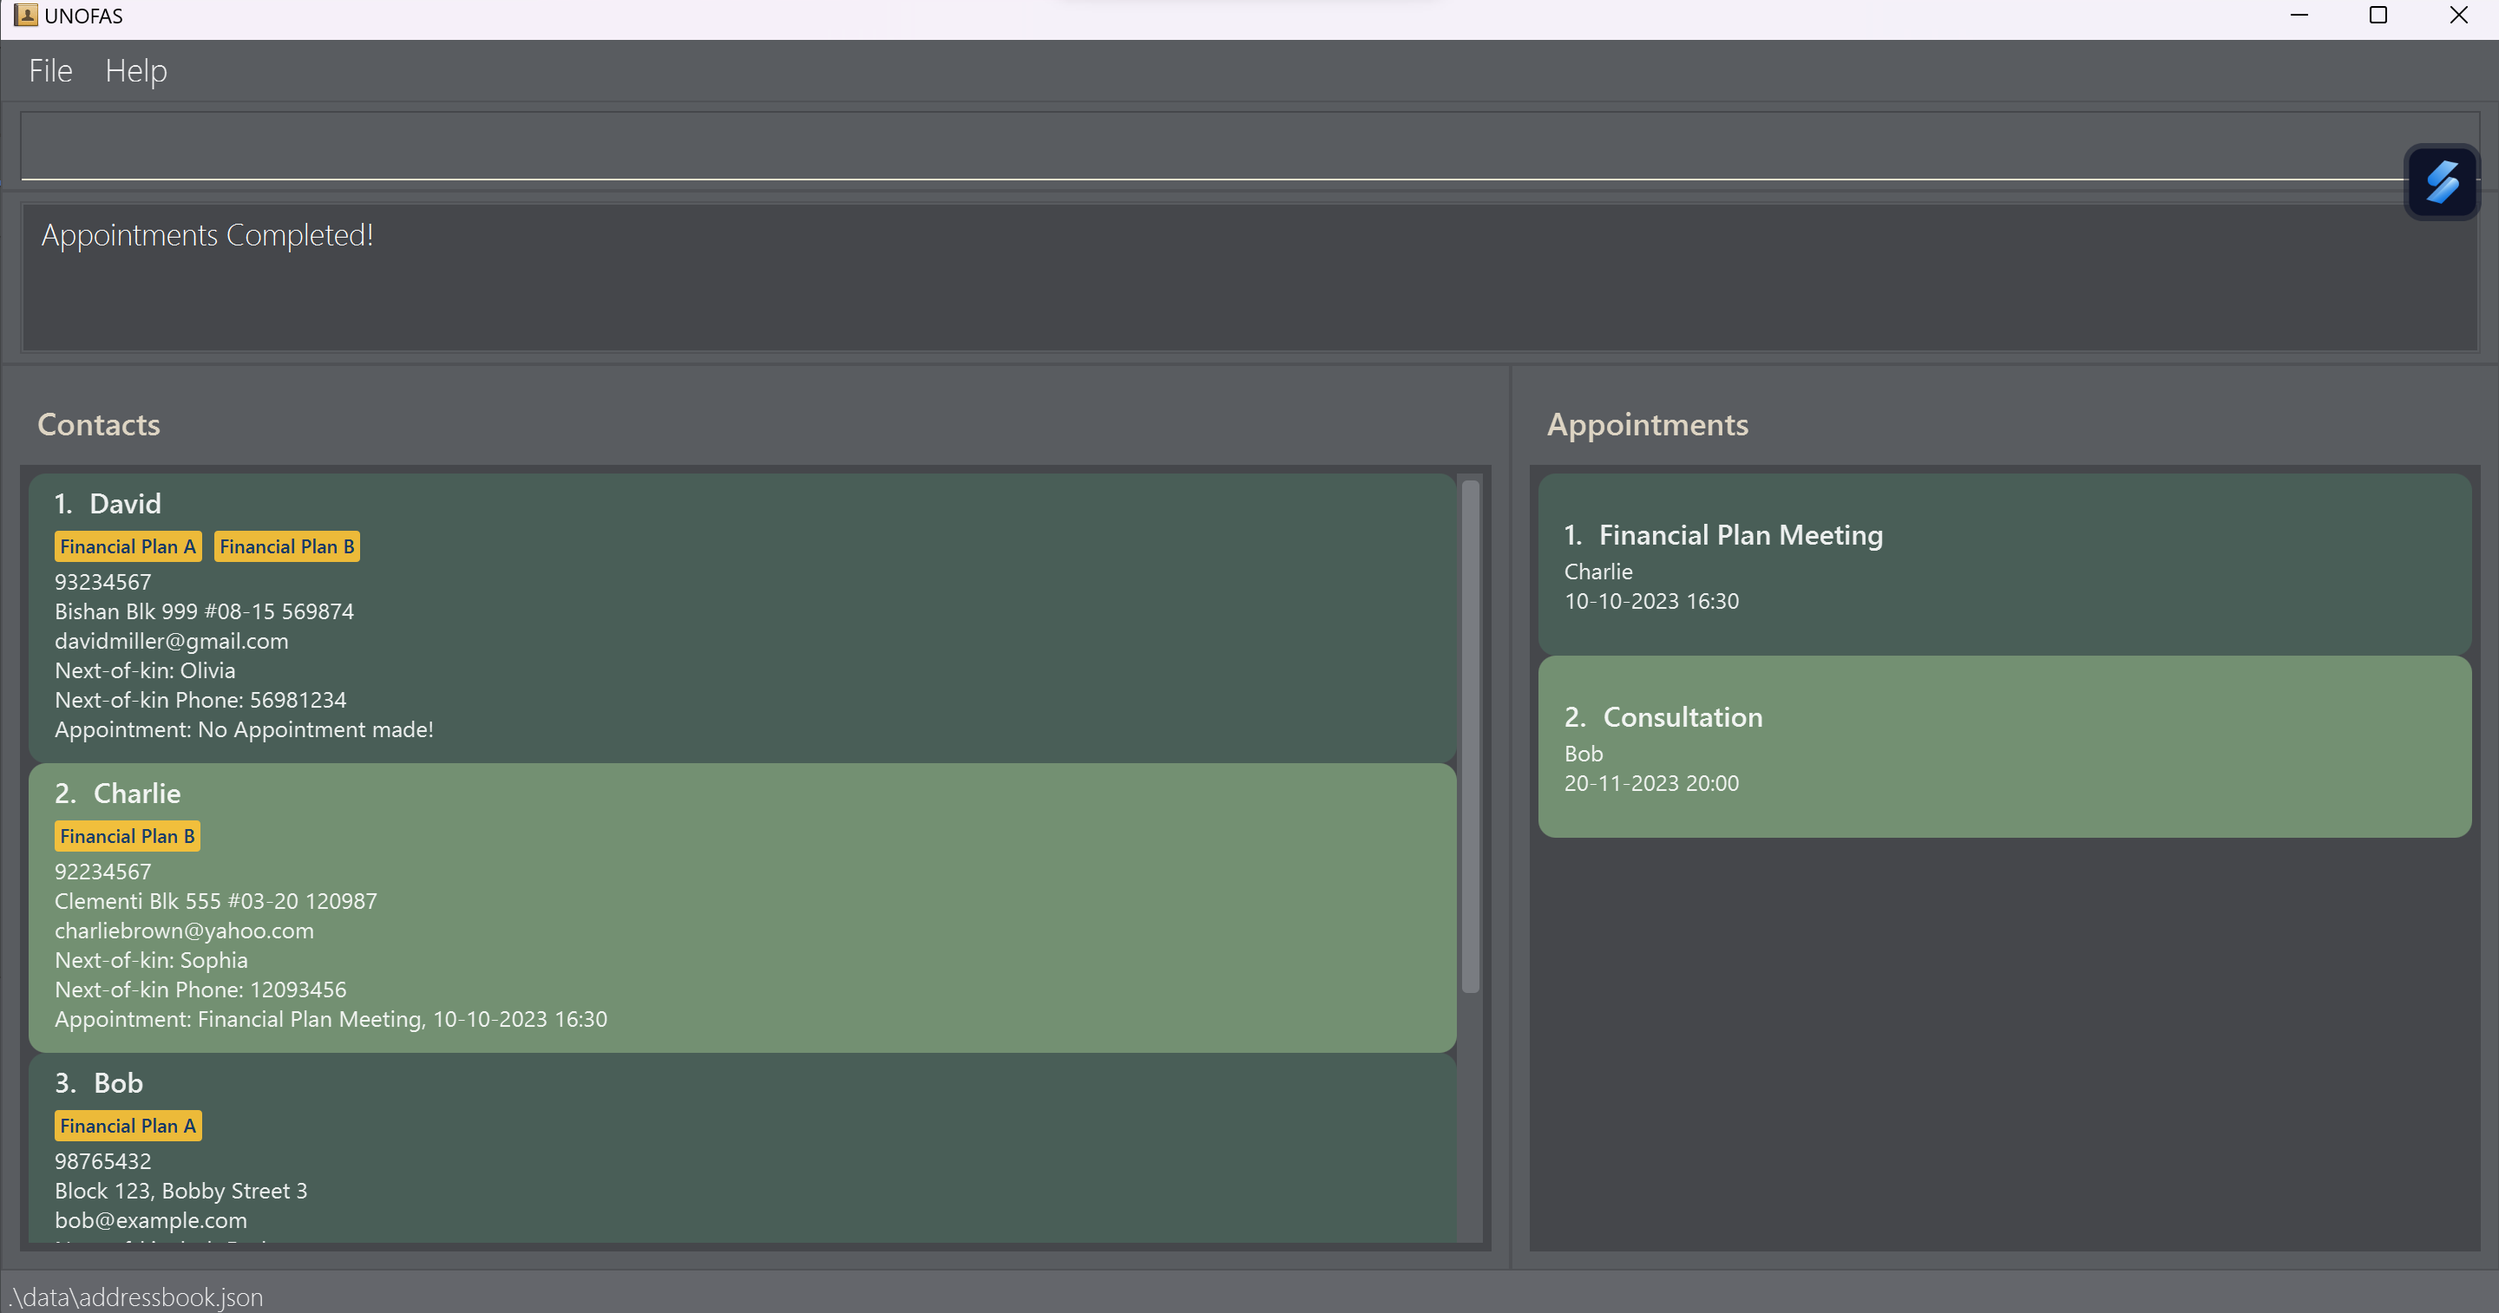
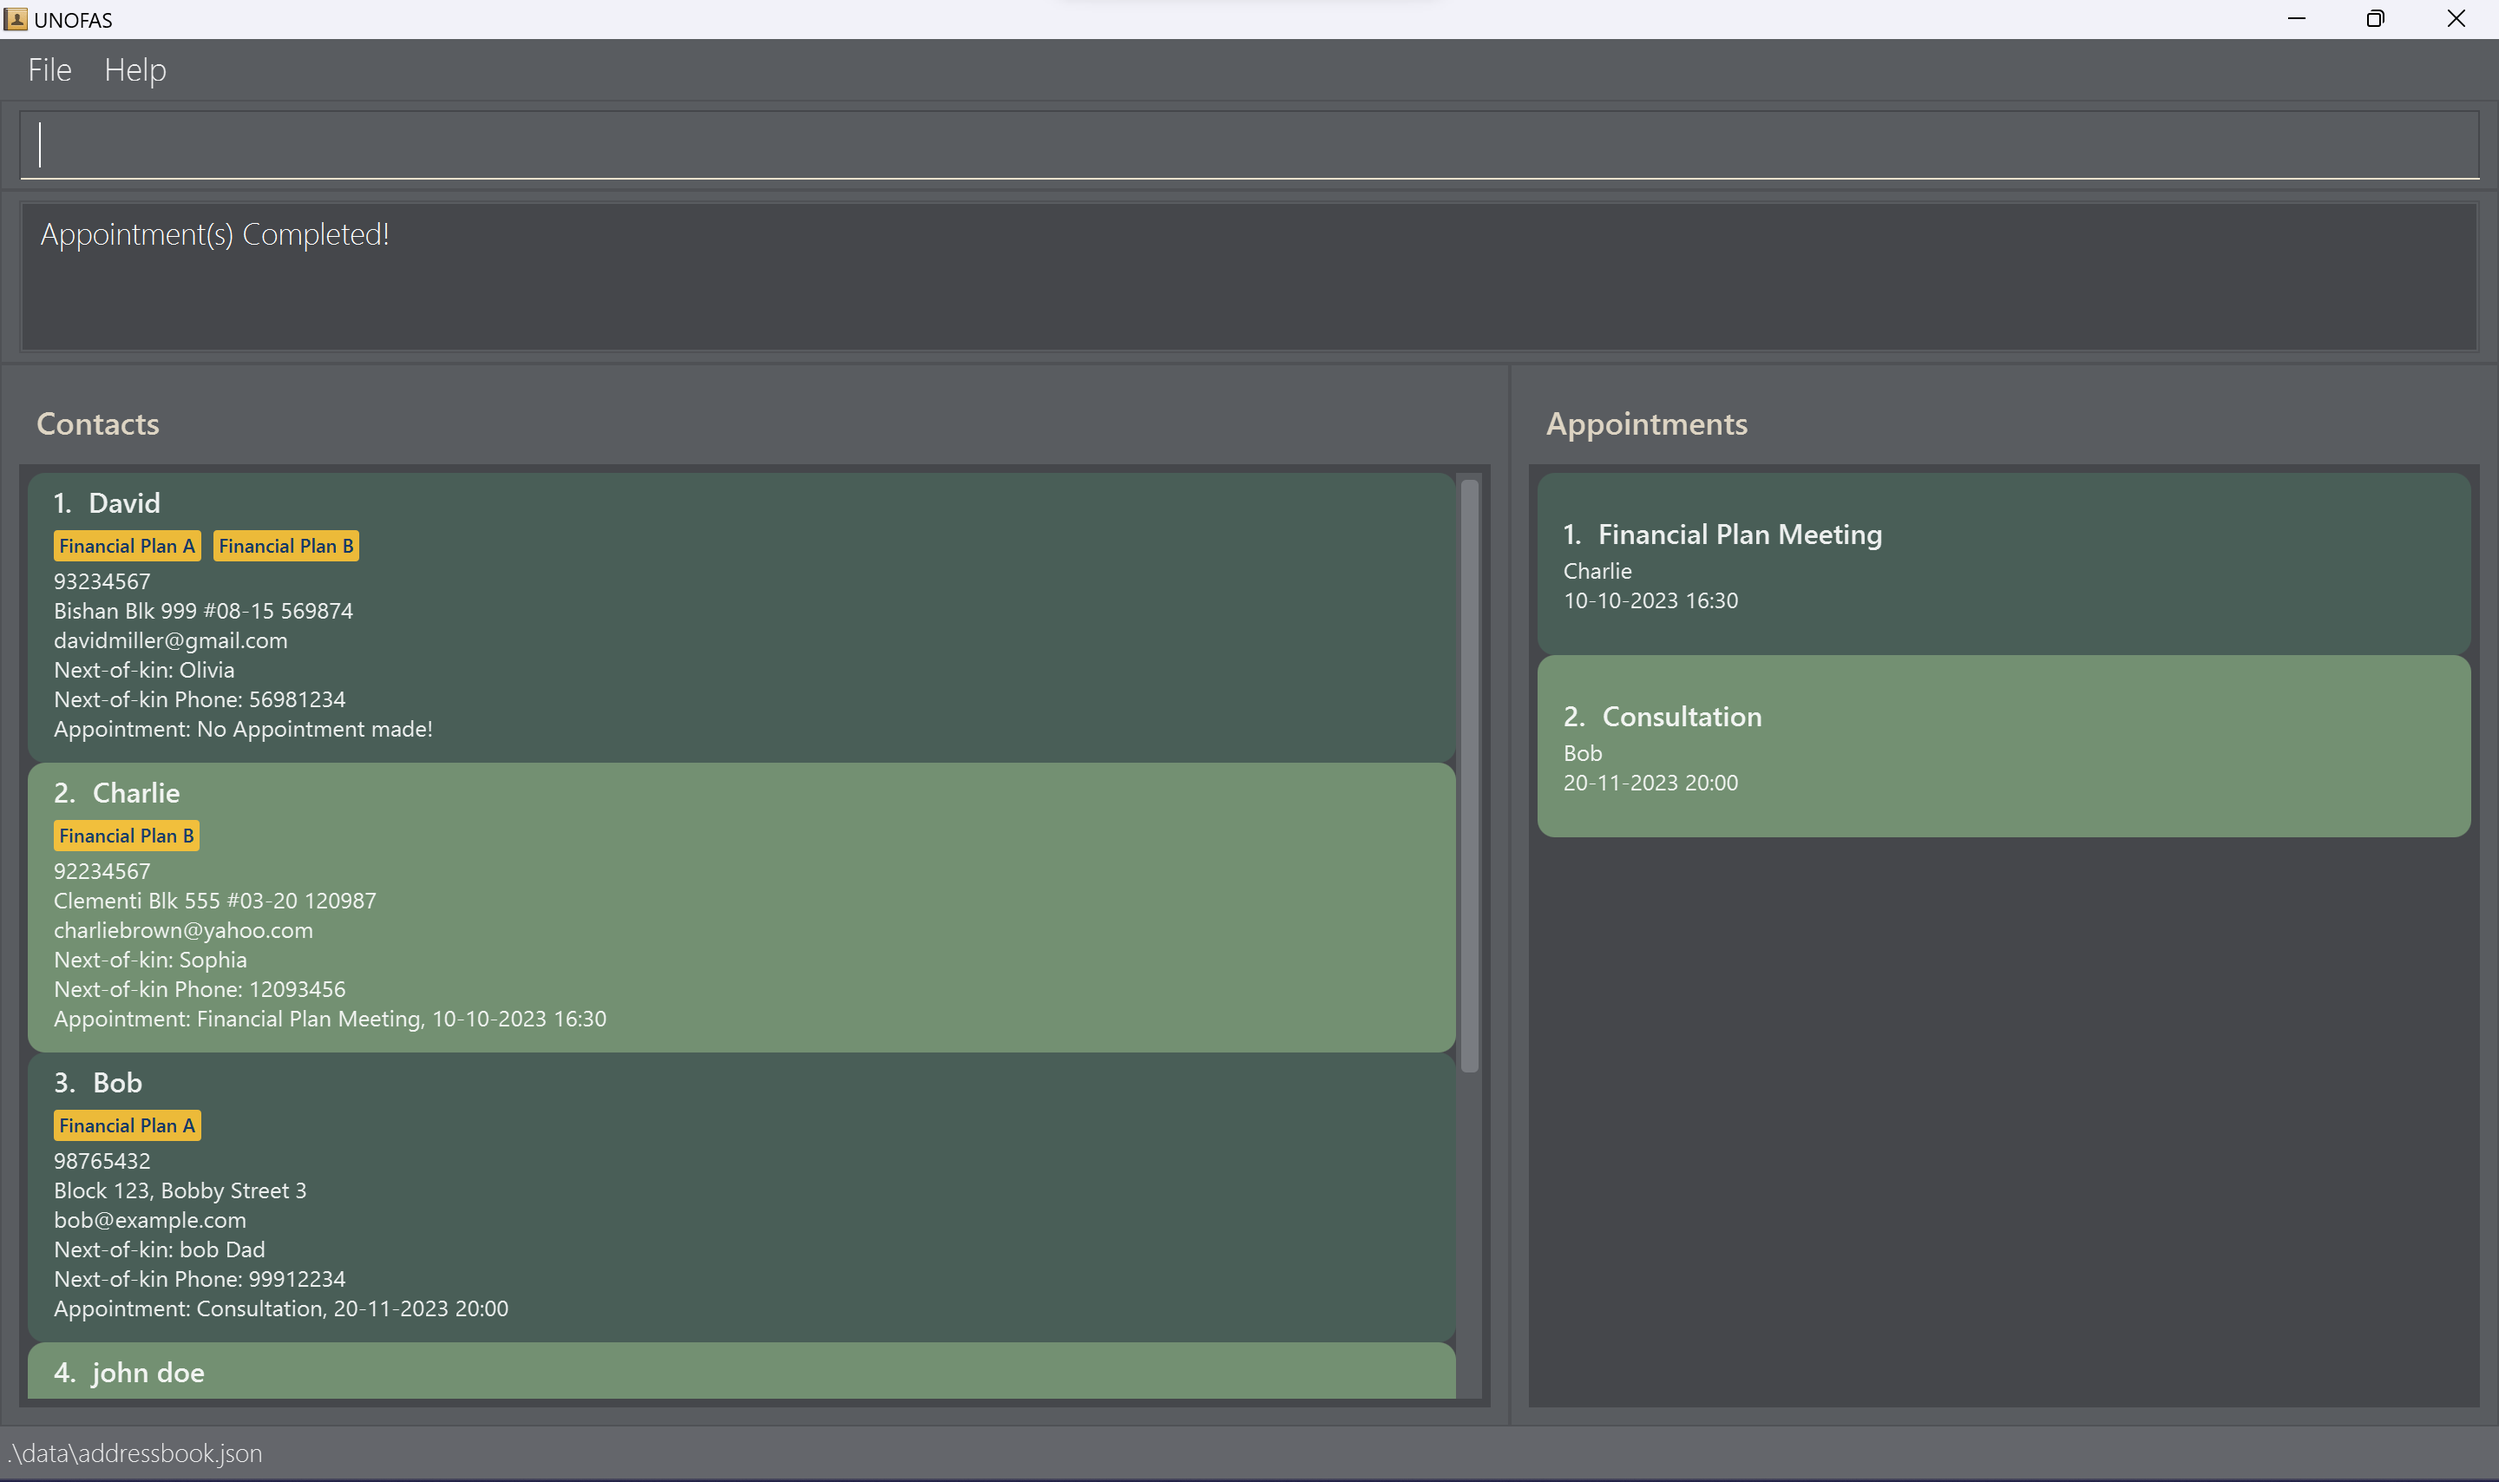
Fix complete command message

diff --git a/src/main/java/seedu/address/logic/commands/CompleteCommand.java b/src/main/java/seedu/address/logic/commands/CompleteCommand.java
@@ -30,7 +30,7 @@ public class CompleteCommand extends Command {
             + "Parameters: [INDEX(must be a positive integer)] "
             + "[" + PREFIX_APPOINTMENT_DATE + "Appointment Date] *At least one parameter specified\n"
             + "Example: " + COMMAND_WORD + " 1 ";
-    public static final String MESSAGE_COMPLETE_SUCCESS = "Appointments Completed!";
+    public static final String MESSAGE_COMPLETE_SUCCESS = "Appointment(s) Completed!";
     public static final String MESSAGE_INVALID_DATE_FORMAT = "Input Date should be in format of dd-MM-yyyy";
     public static final String MESSAGE_INVALID_DATE = "Please input a valid Date";
     public static final String MESSAGE_PERSON_NO_APPOINTMENT = "No Appointment Found:"

diff --git a/docs/UserGuide.md b/docs/UserGuide.md
@@ -338,7 +338,7 @@ Examples:
 - `complete 1`
 - `complete d/01-05-2023`
 
-Successful Output: `Appointments Completed!`
+Successful Output: `Appointment(s) Completed!`
 
 ![result for 'complete 1'](images/completeUi.png)
 
